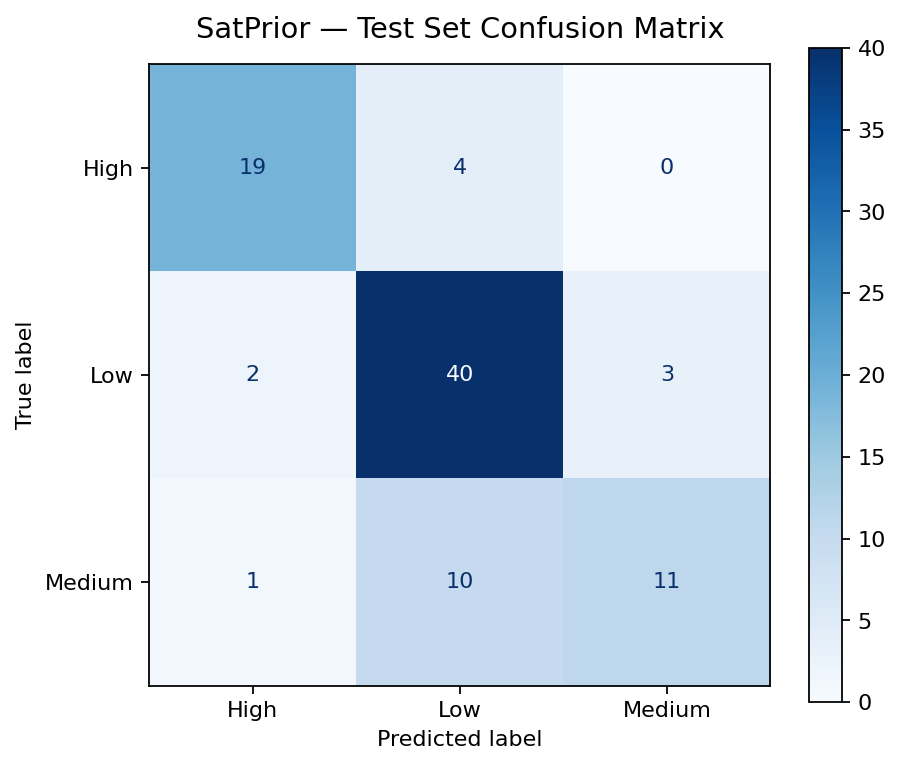
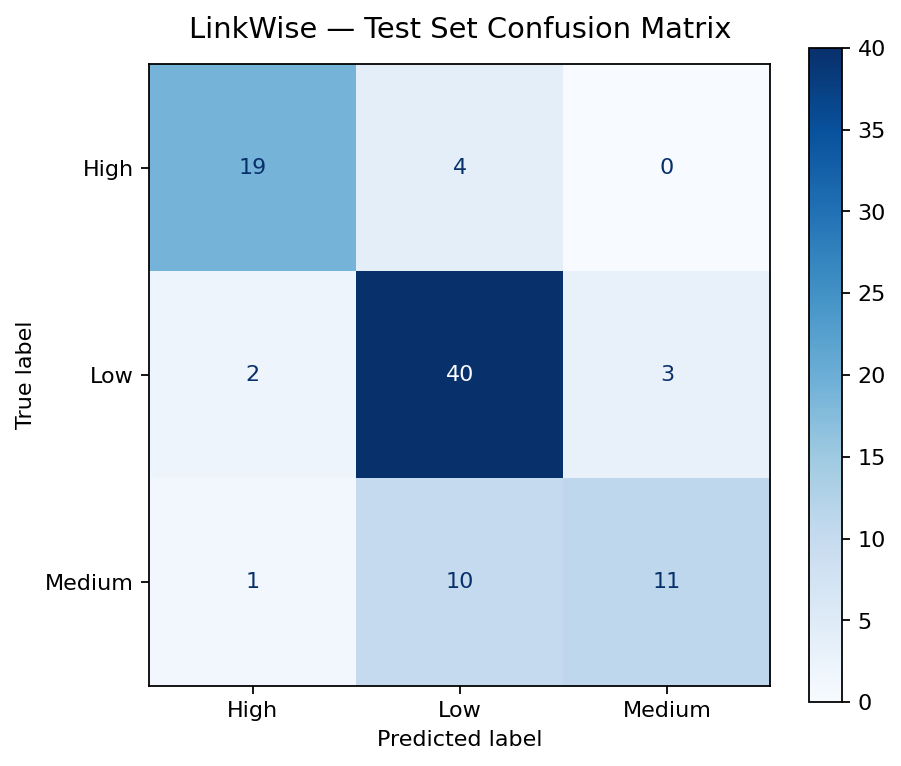
Rename project from SatPrior to LinkWise

Changed region(s): [[0.404, 0.0, 0.808, 0.0601], [0.2175, 0.0, 0.3729, 0.0601]]

diff --git a/templates/index.html b/templates/index.html
@@ -3,7 +3,7 @@
 <head>
   <meta charset="UTF-8">
   <meta name="viewport" content="width=device-width, initial-scale=1.0">
-  <title>SatPrior — Autonomous Satellite Data Prioritization</title>
+  <title>LinkWise — Autonomous Satellite Data Prioritization</title>
   <meta name="description" content="Autonomous Satellite Data Transmission Prioritization using Decision Tree Classification for SomaiyaSat.">
   
   <!-- Modern Clean Font -->
@@ -31,7 +31,7 @@
           </svg>
         </div>
         <div class="brand-text">
-          <span class="project-title">SatPrior</span>
+          <span class="project-title">LinkWise</span>
           <span class="project-tagline">SomaiyaSat ML Telemetry Subsystem</span>
         </div>
       </div>
@@ -245,7 +245,7 @@
     <!-- Footer -->
     <footer class="app-footer">
       <div class="footer-content">
-        <p><strong>SatPrior</strong> &mdash; Autonomous Satellite Data Prioritization Using Decision Tree Classification.</p>
+        <p><strong>LinkWise</strong> &mdash; Autonomous Satellite Data Prioritization Using Decision Tree Classification.</p>
         <p class="footer-meta">SomaiyaSat ML Lab Mini-Project &bull; Sem 5 &bull; Scikit-Learn DecisionTreeClassifier</p>
       </div>
     </footer>

diff --git a/static/css/style.css b/static/css/style.css
@@ -1,5 +1,5 @@
 /* ==============================================================================
-   SatPrior - style.css
+   LinkWise - style.css
    Satellite & Mission Control Themed Modern Stylesheet
    Academic ML Mini-Project Dashboard
    ============================================================================== */

diff --git a/static/js/main.js b/static/js/main.js
@@ -1,6 +1,6 @@
 /**
  * static/js/main.js
- * SatPrior - Frontend Client Logic
+ * LinkWise - Frontend Client Logic
  * Handles interactive form submission via fetch(), loading state animations,
  * priority badge visual formatting, and random packet synthesis.
  */

diff --git a/ml/train.py b/ml/train.py
@@ -38,7 +38,7 @@ import config
 
 def train_model():
     print("=" * 60)
-    print("SatPrior - Model Training Pipeline (Decision Tree Classifier)")
+    print("LinkWise - Model Training Pipeline (Decision Tree Classifier)")
     print("=" * 60)
 
     # 1. Verify dataset exists
@@ -164,7 +164,7 @@ def train_model():
         precision=2,
         fontsize=9,
     )
-    plt.title("SatPrior — Decision Tree Hierarchy (SomaiyaSat Telemetry)", fontsize=16, pad=15)
+    plt.title("LinkWise — Decision Tree Hierarchy (SomaiyaSat Telemetry)", fontsize=16, pad=15)
     plt.tight_layout()
     plt.savefig(config.TREE_PLOT_PATH, dpi=160, bbox_inches="tight")
     plt.close()
@@ -174,7 +174,7 @@ def train_model():
     fig, ax = plt.subplots(figsize=(6, 5), facecolor="#ffffff")
     disp = ConfusionMatrixDisplay(confusion_matrix=cm, display_labels=pipeline.classes_)
     disp.plot(cmap=plt.cm.Blues, ax=ax, colorbar=True, values_format="d")
-    ax.set_title("SatPrior — Test Set Confusion Matrix", fontsize=13, pad=12)
+    ax.set_title("LinkWise — Test Set Confusion Matrix", fontsize=13, pad=12)
     plt.tight_layout()
     plt.savefig(config.CONFUSION_PLOT_PATH, dpi=160, bbox_inches="tight")
     plt.close()
@@ -195,7 +195,7 @@ def train_model():
     ax.set_yticks(range(len(sorted_idx)))
     ax.set_yticklabels([all_feature_names[i] for i in sorted_idx], fontsize=9)
     ax.set_xlabel("Gini Impurity Reduction (Feature Importance)", fontsize=10)
-    ax.set_title("SatPrior — Feature Importance Ranking", fontsize=13, pad=12)
+    ax.set_title("LinkWise — Feature Importance Ranking", fontsize=13, pad=12)
     ax.grid(axis="x", linestyle="--", alpha=0.5)
 
     # Add numeric labels to bars

diff --git a/app.py b/app.py
@@ -1,6 +1,6 @@
 """
 app.py
-SatPrior Flask Web Application
+LinkWise Flask Web Application
 Provides the dashboard interface and prediction API for satellite telemetry data prioritization.
 """
 
@@ -50,7 +50,7 @@ except Exception as e:
 @app.route("/", methods=["GET"])
 def index():
     """
-    Renders the SatPrior mission dashboard with model insights.
+    Renders the LinkWise mission dashboard with model insights.
     """
     metrics = get_metrics_data()
     return render_template(
@@ -123,5 +123,5 @@ def api_metrics():
 
 
 if __name__ == "__main__":
-    print(f"Starting SatPrior Dashboard on http://127.0.0.1:5000 ...")
+    print(f"Starting LinkWise Dashboard on http://127.0.0.1:5000 ...")
     app.run(host="127.0.0.1", port=5000, debug=True)

diff --git a/ml/predict.py b/ml/predict.py
@@ -1,6 +1,6 @@
 """
 ml/predict.py
-Inference and rule explanation module for SatPrior.
+Inference and rule explanation module for LinkWise.
 Provides reusable functions to predict transmission priority of satellite packets
 and generate human-readable decision explanations based on the trained Decision Tree.
 """
@@ -255,7 +255,7 @@ if __name__ == "__main__":
         },
     ]
 
-    print("SatPrior - predict.py Self-Test:")
+    print("LinkWise - predict.py Self-Test:")
     print("=" * 60)
     for idx, pkt in enumerate(test_packets, 1):
         p, expl = predict_and_explain(pkt)

diff --git a/data/generate_data.py b/data/generate_data.py
@@ -137,7 +137,7 @@ def generate_satellite_data(num_samples: int = 450, random_seed: int = config.RA
 
 def main():
     print("=" * 60)
-    print("SatPrior - Synthetic Satellite Telemetry Dataset Generator")
+    print("LinkWise - Synthetic Satellite Telemetry Dataset Generator")
     print("=" * 60)
 
     # Ensure output directory exists

diff --git a/config.py b/config.py
@@ -1,5 +1,5 @@
 """
-SatPrior - Configuration Module
+LinkWise - Configuration Module
 Autonomous Satellite Data Prioritization Using Decision Tree Classification.
 
 This file provides centralized paths, feature specifications, allowed values,

diff --git a/README.md b/README.md
@@ -1,4 +1,4 @@
-# SatPrior: Autonomous Satellite Data Prioritization Using Decision Tree Classification
+# LinkWise: Autonomous Satellite Data Prioritization Using Decision Tree Classification
 
 [![Python](https://img.shields.io/badge/Python-3.10%2B-blue.svg)](https://www.python.org/)
 [![Framework](https://img.shields.io/badge/Framework-Flask-black.svg)](https://flask.palletsprojects.com/)
@@ -14,7 +14,7 @@
 
 In small satellite operations such as SomaiyaSat, communication pass windows with ground stations are brief (typically 8–12 minutes per pass), and on-board electrical power and downlink bandwidth are severely constrained. Downlinking bulky non-critical payloads during low-elevation passes or low-battery states risks packet drops, frame corruption, and satellite brownout.
 
-**SatPrior** solves this scheduling challenge through transparent, interpretable machine learning:
+**LinkWise** solves this scheduling challenge through transparent, interpretable machine learning:
 - Ingests telemetry packet parameters (**Data Type**, **Urgency**, **Data Size**, **Battery Level**, and **Link Quality**).
 - Applies a pruned **Decision Tree Classifier** to classify transmission priority into **High**, **Medium**, or **Low**.
 - Traces the exact node traversal through the decision tree to generate human-readable explanations (e.g., *"High urgency flag and compact packet size guided the decision tree to assign High transmission priority"*).
@@ -47,7 +47,7 @@ In small satellite operations such as SomaiyaSat, communication pass windows wit
 ## 4. Project Directory Structure
 
 ```text
-satprior/
+linkwise/
 ├── README.md                 # Project documentation and user guide
 ├── requirements.txt          # Python dependencies
 ├── .gitignore                # Git ignore rules
